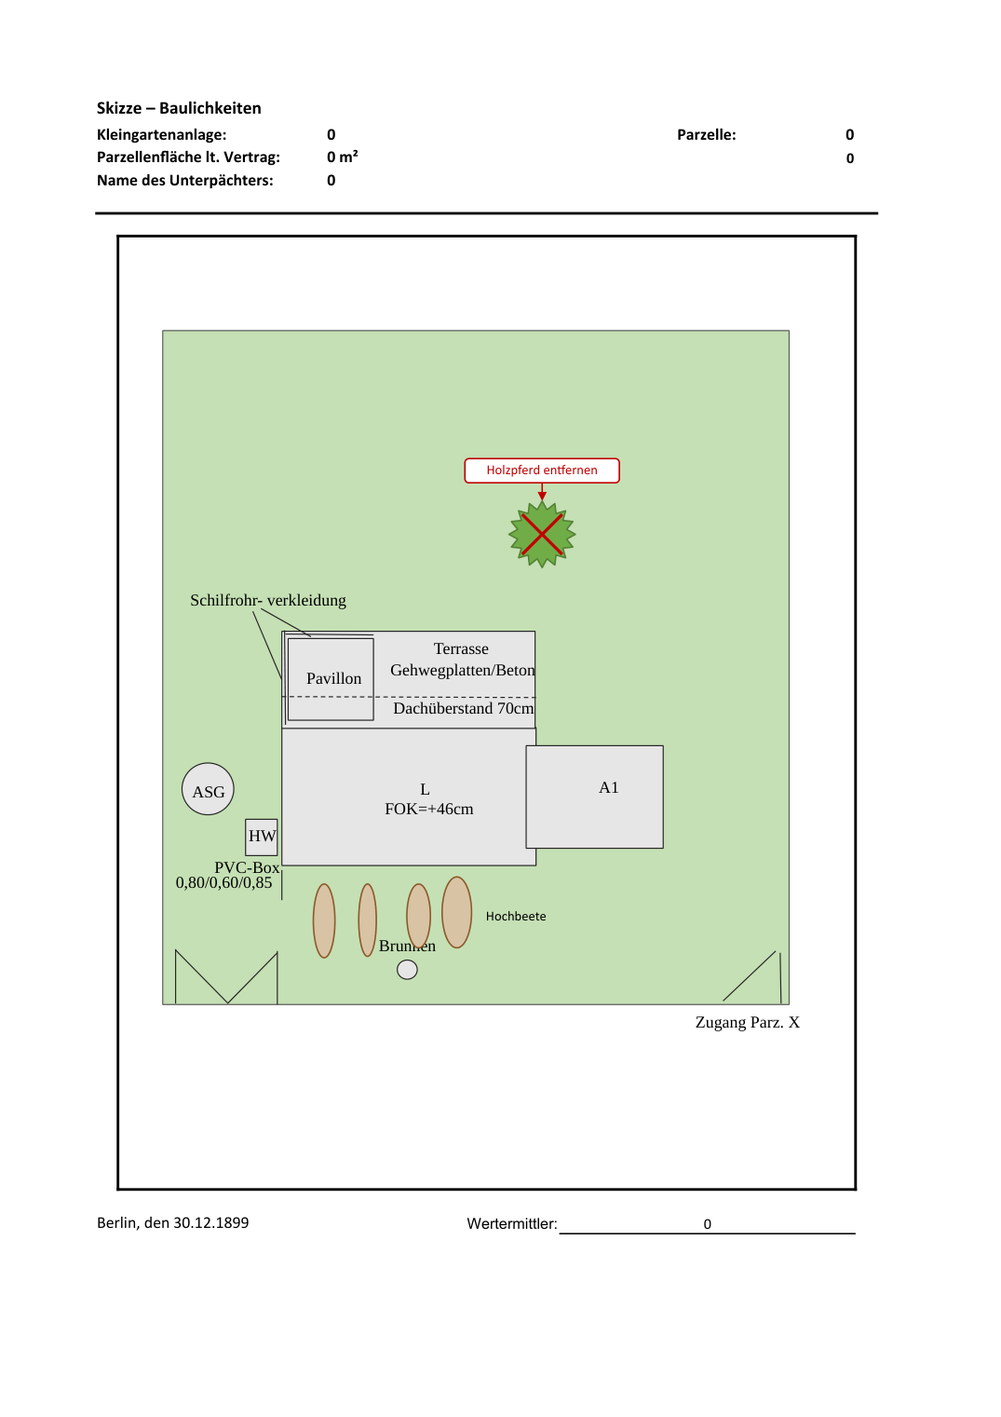
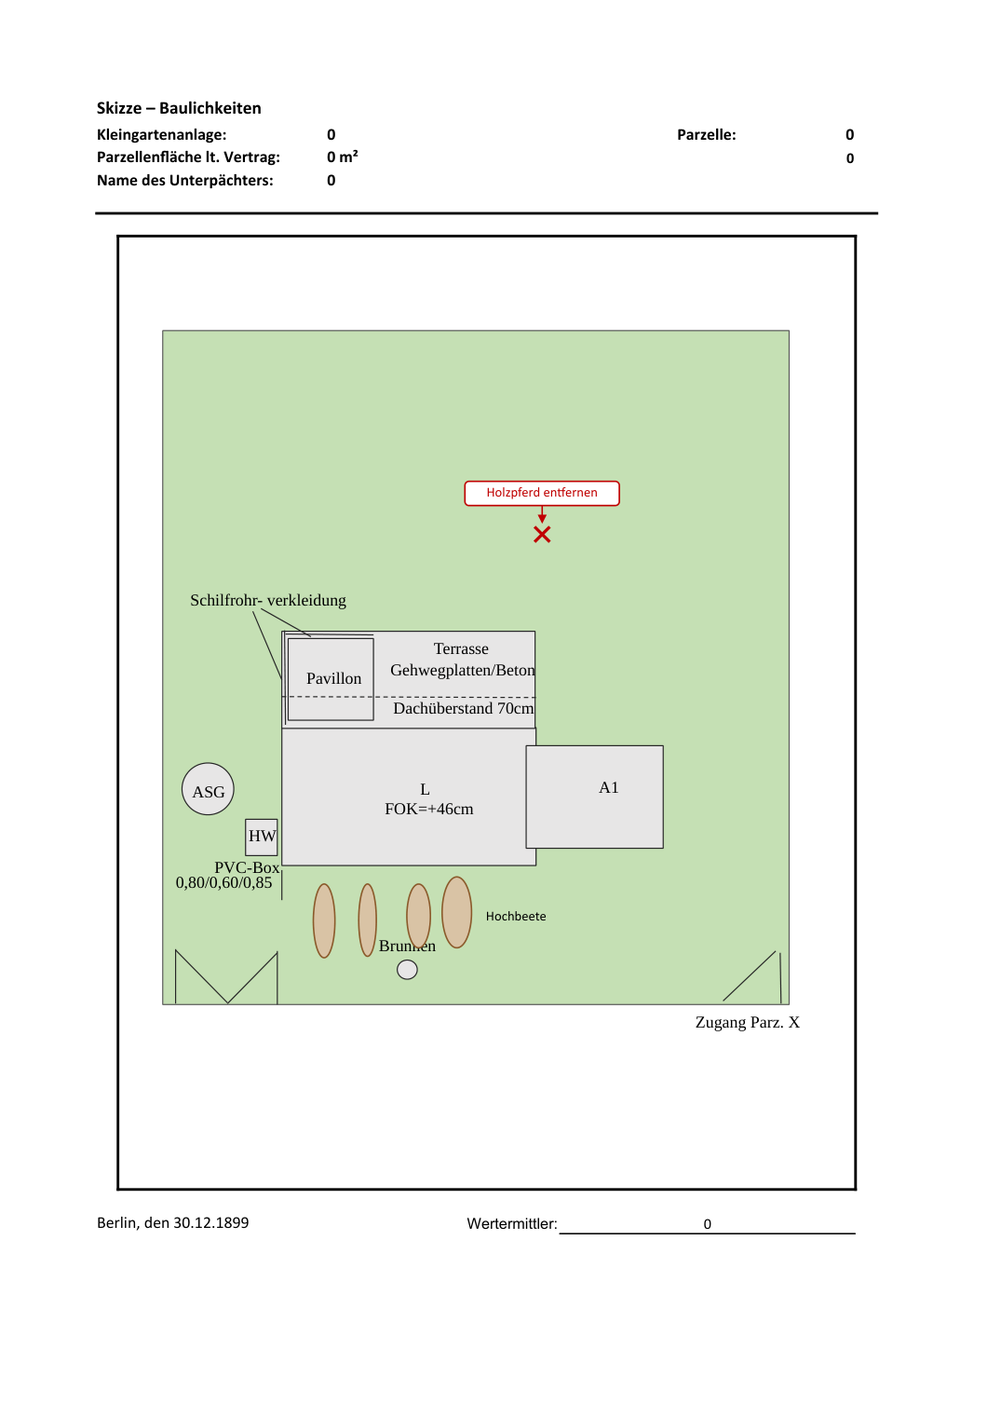
Export-Formen: entfernen nur bei Pflanzen als Stern, Beschriftungen weichen aus
- entfernen: Stern + X nur mit pflanze=true; sonst Hinweis + Pfeil + kleines rotes X
- Eigene Beschriftungen weichen vorhandenen Beschriftungen aus (rechts/unten/links/oben),
  Bau-Formen bleiben unverändert; Überdeckungen durch Körper-Formen werden gemeldet
- Adapter erkennt Pflanzen per Wortliste; Stilprobe und Vergleichsbild neu

Claude-Session: https://claude.ai/code/session_01HtoNJ3bRdjfhPeEhztXJF5

Changed region(s): [[0.4605, 0.309, 0.614, 0.4017]]

diff --git a/src/export/skizzeFormen.ts b/src/export/skizzeFormen.ts
@@ -24,8 +24,10 @@ import {
   NS_REL,
   REL_IMAGE,
   SKIZZE_BLATTNAME,
+  ANKER_REGEX,
   WEP_APP_MARKER,
   einpassen,
+  istEigenerAnker,
   entferneEigeneFormen,
   ergaenzeContentType,
   fuegeBeziehungHinzu,
@@ -94,6 +96,11 @@ export interface FormElement {
   text?: string
   /** hecke: „flieder“ | „gruen“; baum: „bergahorn“ | „buche“. */
   variante?: string
+  /**
+   * entfernen: Pflanze (Baum, Strauch, Hecke, Konifere) → Stern mit rotem X.
+   * Sonst (Holzpferd, Schuppen, Platte …) nur Hinweis + Pfeil auf die Stelle mit kleinem rotem X.
+   */
+  pflanze?: boolean
   /** Schriftgröße in pt (Standard 9). */
   schriftPt?: number
 }
@@ -126,6 +133,10 @@ export interface SkizzeFormenErgebnis {
   graswiese: boolean
   /** Piktogramme als SVG-Bild mit PNG-Fallback (sonst einfache Formen). */
   svgBilder: number
+  /** Beschriftungen, die wegen vorhandener Beschriftungen verschoben wurden (Formnamen). */
+  verschoben: string[]
+  /** Formen, die eine vorhandene Beschriftung überdecken und nicht verschoben werden können. */
+  ueberdeckt: string[]
 }
 
 // ---------------------------------------------------------------------------
@@ -626,22 +637,33 @@ function formenFuer(el: FormElement, mitSvg: boolean): Form[] {
 
     case 'entfernen': {
       if (!k) return []
-      const d = Math.round(Math.min(44 * PT, Math.max(30 * PT, Math.min(k.w, k.h))))
       const m = mitte(k)
-      const stern: Kasten = { x: Math.round(m.x - d / 2), y: Math.round(m.y - d / 2), w: d, h: d }
-      const r = d * 0.3
-      const f: Form[] = [
-        { art: 'sp', name: n, ebene: EBENE.entfernen, kasten: stern, prst: 'star16', fuellung: FARBE.sternFuellung, linie: linie(FARBE.sternLinie) },
-        { art: 'cxn', name: `${n}_X1`, ebene: EBENE.entfernen, von: { x: m.x - r, y: m.y - r }, nach: { x: m.x + r, y: m.y + r }, linie: linie(FARBE.rot, 2) },
-        { art: 'cxn', name: `${n}_X2`, ebene: EBENE.entfernen, von: { x: m.x + r, y: m.y - r }, nach: { x: m.x - r, y: m.y + r }, linie: linie(FARBE.rot, 2) },
-      ]
+      const f: Form[] = []
+      let oben: number // Oberkante der Markierung (Stern bzw. X)
+      const kreuz = (r: number) => {
+        f.push(
+          { art: 'cxn', name: `${n}_X1`, ebene: EBENE.entfernen, von: { x: m.x - r, y: m.y - r }, nach: { x: m.x + r, y: m.y + r }, linie: linie(FARBE.rot, 2) },
+          { art: 'cxn', name: `${n}_X2`, ebene: EBENE.entfernen, von: { x: m.x + r, y: m.y - r }, nach: { x: m.x - r, y: m.y + r }, linie: linie(FARBE.rot, 2) },
+        )
+      }
+      if (el.pflanze) {
+        const d = Math.round(Math.min(44 * PT, Math.max(30 * PT, Math.min(k.w, k.h))))
+        const stern: Kasten = { x: Math.round(m.x - d / 2), y: Math.round(m.y - d / 2), w: d, h: d }
+        f.push({ art: 'sp', name: n, ebene: EBENE.entfernen, kasten: stern, prst: 'star16', fuellung: FARBE.sternFuellung, linie: linie(FARBE.sternLinie) })
+        kreuz(d * 0.3)
+        oben = stern.y
+      } else {
+        // kein Pflanzen-Stern: nur ein kleines rotes X als Marker auf der Stelle
+        kreuz(5 * PT)
+        oben = Math.round(m.y - 7 * PT)
+      }
       if (text) {
         const h = Math.round(16 * PT)
         const w = textBreite(text, pt)
-        const hinweis: Kasten = { x: Math.round(m.x - w / 2), y: Math.max(0, Math.round(stern.y - h - 12 * PT)), w, h }
+        const hinweis: Kasten = { x: Math.round(m.x - w / 2), y: Math.max(0, Math.round(oben - h - 12 * PT)), w, h }
         f.push(
           hinweisFeld(`${n}_Hinweis`, hinweis, text, pt),
-          pfeil(`${n}_Pfeil`, { x: m.x, y: hinweis.y + hinweis.h }, { x: m.x, y: stern.y }, FARBE.rot, EBENE.hinweis),
+          pfeil(`${n}_Pfeil`, { x: m.x, y: hinweis.y + hinweis.h }, { x: m.x, y: oben }, FARBE.rot, EBENE.hinweis),
         )
       }
       return f
@@ -862,6 +884,75 @@ export function skizzeDatenZuFormen(daten: SkizzeDaten, bereich: Kasten): FormEl
 // Einfügen ins Zip
 // ---------------------------------------------------------------------------
 
+// ---------------------------------------------------------------------------
+// Beschriftungen nicht über vorhandene Beschriftungen legen
+// ---------------------------------------------------------------------------
+
+/** Rechtecke fremder Formen mit sichtbarem Text (z. B. Beschriftungen der Bau-Skizze). */
+export function fremdeBeschriftungen(drawingXml: string): { name: string; kasten: Kasten }[] {
+  const out: { name: string; kasten: Kasten }[] = []
+  for (const m of drawingXml.matchAll(ANKER_REGEX)) {
+    const anker = m[0]
+    if (istEigenerAnker(anker)) continue
+    const texte = [...anker.matchAll(/<a:t(?:\s[^>]*)?>([^<]*)<\/a:t>/g)].map((t) => t[1].trim()).filter(Boolean)
+    if (!texte.length) continue
+    const off = /<a:off x="(-?\d+)" y="(-?\d+)"\/>/.exec(anker)
+    const ext = /<a:ext cx="(\d+)" cy="(\d+)"\/>/.exec(anker)
+    if (!off || !ext) continue
+    out.push({
+      name: texte.join(' '),
+      kasten: { x: Number(off[1]), y: Number(off[2]), w: Number(ext[1]), h: Number(ext[2]) },
+    })
+  }
+  return out
+}
+
+/** Überlappen sich die Rechtecke (mit 1 pt Toleranz am Rand)? */
+function ueberlappt(a: Kasten, b: Kasten): boolean {
+  const t = PT
+  return a.x + t < b.x + b.w && b.x + t < a.x + a.w && a.y + t < b.y + b.h && b.y + t < a.y + a.h
+}
+
+const kastenVon = (f: Form): Kasten =>
+  f.art === 'cxn'
+    ? { x: Math.min(f.von.x, f.nach.x), y: Math.min(f.von.y, f.nach.y), w: Math.abs(f.nach.x - f.von.x), h: Math.abs(f.nach.y - f.von.y) }
+    : f.kasten
+
+/**
+ * Verschiebt eigene Beschriftungen (Textfelder), die vorhandene Beschriftungen, eigene
+ * Formen oder bereits gesetzte Beschriftungen überdecken würden – bevorzugt nach rechts,
+ * dann unten, links, oben. Vorhandene Formen werden nie angefasst. Gibt die Namen der
+ * verschobenen Beschriftungen zurück.
+ */
+export function weicheBeschriftungenAus(formen: Form[], fremd: Kasten[]): string[] {
+  const verschoben: string[] = []
+  const gesetzt: Kasten[] = []
+  const koerper = formen.filter((f) => !(f.art === 'sp' && f.textfeld) && f.ebene > EBENE.gras && f.art !== 'cxn').map(kastenVon)
+  for (const f of formen) {
+    if (f.art !== 'sp' || !f.textfeld) continue
+    const hindernisse = [...fremd, ...koerper, ...gesetzt]
+    const frei = (k: Kasten) => k.x >= 0 && k.y >= 0 && !hindernisse.some((h) => ueberlappt(k, h))
+    if (!frei(f.kasten)) {
+      const { w, h } = f.kasten
+      const luecke = 2 * PT
+      const kandidat = (dx: number, dy: number): Kasten => ({ ...f.kasten, x: f.kasten.x + dx, y: f.kasten.y + dy })
+      const versuche: Kasten[] = []
+      for (const stufe of [1, 2, 3]) {
+        const sx = (w + luecke) * stufe
+        const sy = (h + luecke) * stufe
+        versuche.push(kandidat(sx, 0), kandidat(0, sy), kandidat(-sx, 0), kandidat(0, -sy), kandidat(sx, sy), kandidat(-sx, sy), kandidat(sx, -sy), kandidat(-sx, -sy))
+      }
+      const neu = versuche.find(frei)
+      if (neu) {
+        f.kasten = neu
+        verschoben.push(f.name)
+      }
+    }
+    gesetzt.push(f.kasten)
+  }
+  return verschoben
+}
+
 function naechsterMediaName(zip: JSZip, stamm: string, endung: string): string {
   let n = 1
   while (zip.file(`xl/media/${stamm}${n}.${endung}`)) n++
@@ -907,6 +998,14 @@ export async function fuegeSkizzeFormenEin(
   formen.push(...elementeZuFormen(elemente, mitSvg))
   formen.sort((a, b) => a.ebene - b.ebene)
 
+  // Beschriftungen nicht über vorhandene (Bau-)Beschriftungen legen; Formen, die eine
+  // vorhandene Beschriftung überdecken, bleiben stehen (Lage = Skizze) und werden gemeldet.
+  const fremd = fremdeBeschriftungen(drawingXml)
+  const verschoben = weicheBeschriftungenAus(formen, fremd.map((x) => x.kasten))
+  const ueberdeckt = formen
+    .filter((f) => !(f.art === 'sp' && f.textfeld) && f.art !== 'cxn' && f.ebene > EBENE.gras)
+    .flatMap((f) => fremd.filter((x) => ueberlappt(kastenVon(f), x.kasten)).map((x) => `${f.name} überdeckt „${x.name}“`))
+
   // Bilder (SVG + PNG-Fallback) ablegen und verknüpfen
   const relsDatei = relsPfad(drawingPfad)
   let rels = (await zip.file(relsDatei)?.async('string')) ?? LEERE_RELS
@@ -942,5 +1041,5 @@ export async function fuegeSkizzeFormenEin(
 
   drawingXml = drawingXml.replace('</xdr:wsDr>', `${anker}</xdr:wsDr>`)
   zip.file(drawingPfad, drawingXml)
-  return { anzahlFormen: formen.length, entfernt, graswiese, svgBilder }
+  return { anzahlFormen: formen.length, entfernt, graswiese, svgBilder, verschoben, ueberdeckt }
 }

diff --git a/src/export/__tests__/skizzeFormen.test.ts b/src/export/__tests__/skizzeFormen.test.ts
@@ -51,6 +51,7 @@ const BEISPIEL: FormElement[] = [
   { typ: 'hochbeet', name: 'Hochbeet_0', kasten: { x: 1_500_000, y: 6_000_000, w: 400_000, h: 600_000 } },
   { typ: 'hochbeet', name: 'Hochbeet_1', kasten: { x: 2_000_000, y: 6_000_000, w: 400_000, h: 600_000 } },
   { typ: 'entfernen', name: 'Holzpferd', kasten: { x: 3_000_000, y: 3_000_000, w: 500_000, h: 400_000 }, text: 'Holzpferd entfernen' },
+  { typ: 'entfernen', name: 'Wacholder', kasten: { x: 3_800_000, y: 3_000_000, w: 500_000, h: 400_000 }, text: 'Wacholder entfernen', pflanze: true },
   { typ: 'baum', name: 'Bergahorn', kasten: { x: 4_000_000, y: 4_000_000, w: 500_000, h: 600_000 }, text: 'Bergahorn', variante: 'bergahorn' },
   { typ: 'hecke', name: 'Fliederhecke', kasten: { x: 1_000_000, y: 2_500_000, w: 2_000_000, h: 300_000 }, text: 'Flieder', variante: 'flieder' },
   { typ: 'kompost', name: 'Kompost', kasten: { x: 4_500_000, y: 2_500_000, w: 600_000, h: 400_000 } },
@@ -125,7 +126,8 @@ describe('Elemente → Formen', () => {
     const namen = formNamen(BEISPIEL)
     for (const n of [
       'Hochbeet_0', 'Hochbeet_1',
-      'Holzpferd', 'Holzpferd_X1', 'Holzpferd_X2', 'Holzpferd_Hinweis',
+      'Holzpferd_X1', 'Holzpferd_X2', 'Holzpferd_Hinweis', 'Holzpferd_Pfeil',
+      'Wacholder', 'Wacholder_X1', 'Wacholder_Hinweis',
       'Bergahorn', 'Bergahorn_Text',
       'Fliederhecke_0', 'Fliederhecke_Text',
       'Kompost', 'Kompost_Latte_0', 'Kompost_Latte_1', 'Kompost_Latte_2', 'Kompost_Text',
@@ -137,18 +139,28 @@ describe('Elemente → Formen', () => {
     expect(new Set(namen).size).toBe(namen.length)
   })
 
+  it('entfernen: Pflanze = Stern + X, Nicht-Pflanze = nur kleines X + Hinweis + Pfeil', () => {
+    const formen = elementeZuFormen(BEISPIEL, false)
+    const namen = formen.map((f) => f.name)
+    expect(namen).toContain('Wacholder')
+    expect(namen).not.toContain('Holzpferd') // kein Stern
+    expect(formen.some((f) => f.name.startsWith('Holzpferd') && f.art === 'sp' && f.prst === 'star16')).toBe(false)
+    const x1 = formen.find((f) => f.name === 'Holzpferd_X1')!
+    expect(x1.art === 'cxn' && Math.abs(x1.nach.x - x1.von.x)).toBeLessThanOrEqual(12 * PT)
+  })
+
   it('ordnet die Ebenen: Grün unten, Beschriftung, Hinweise, Maße oben', () => {
     const namen = formNamen(BEISPIEL)
     const pos = (n: string) => namen.indexOf(n)
     expect(pos('Fliederhecke_0')).toBeLessThan(pos('Kompost'))
-    expect(pos('Kompost')).toBeLessThan(pos('Holzpferd'))
-    expect(pos('Holzpferd')).toBeLessThan(pos('Bergahorn_Text'))
+    expect(pos('Kompost')).toBeLessThan(pos('Holzpferd_X1'))
+    expect(pos('Holzpferd_X1')).toBeLessThan(pos('Bergahorn_Text'))
     expect(pos('Bergahorn_Text')).toBeLessThan(pos('Rueckschnitt'))
     expect(pos('Rueckschnitt')).toBeLessThan(pos('Maß_Laube_Breite'))
   })
 
   it('zeichnet die Hecke als versetzte, überlappende Ellipsen', () => {
-    const formen = elementeZuFormen([BEISPIEL[4]], false).filter((f) => f.name.startsWith('Fliederhecke_') && f.art === 'sp')
+    const formen = elementeZuFormen(BEISPIEL.filter((e) => e.name === 'Fliederhecke'), false).filter((f) => f.name.startsWith('Fliederhecke_') && f.art === 'sp')
     const ellipsen = formen.filter((f) => f.name !== 'Fliederhecke_Text')
     expect(ellipsen.length).toBeGreaterThanOrEqual(5)
     for (const e of ellipsen) {
@@ -160,7 +172,7 @@ describe('Elemente → Formen', () => {
   })
 
   it('Baum ohne SVG: Krone aus Kreisen + Stamm', () => {
-    const namen = formNamen([BEISPIEL[3]], false)
+    const namen = formNamen(BEISPIEL.filter((e) => e.name === 'Bergahorn'), false)
     expect(namen).toEqual(expect.arrayContaining(['Bergahorn_Stamm', 'Bergahorn_Krone_0', 'Bergahorn_Krone_1', 'Bergahorn_Krone_2']))
   })
 })
@@ -187,7 +199,8 @@ describe('Export als Excel-Formen', () => {
     const r = await exportWep(wep, vorlage, { skizzeFormen: { elemente: BEISPIEL, rasterisiere: raster } })
     const drawing = await (await alsZip(r.blob)).file(DRAWING)!.async('string')
     const form = (name: string) => anker(drawing).find((a) => a.includes(`name="${name}"`))!
-    expect(form('Holzpferd')).toContain('prst="star16"')
+    expect(form('Wacholder')).toContain('prst="star16"')
+    expect(form('Holzpferd_X1')).not.toContain('star16')
     expect(form('Holzpferd_X1')).toMatch(/<a:ln w="25400"><a:solidFill><a:srgbClr val="C00000"/)
     expect(form('Holzpferd_Hinweis')).toContain('prst="roundRect"')
     expect(form('Holzpferd_Hinweis')).toContain('<a:srgbClr val="FFFFFF"/>')
@@ -364,13 +377,44 @@ describe('Blatt mit fremden Formen', () => {
     const zip = await alsZip(zweit.blob)
     const drawing = await zip.file(DRAWING)!.async('string')
     for (const f of FREMDE) expect(drawing).toContain(f)
-    expect(drawing).not.toContain('name="Holzpferd"')
+    expect(drawing).not.toContain('name="Wacholder"')
     expect(drawing).toContain('name="Hochbeet_1"')
     expect(drawing.match(/name="Hochbeet_0"/g)).toHaveLength(1)
     // keine Bild-Leichen: nur Bilder, die noch verwendet werden (hier: keine Piktogramme mehr)
     expect(zip.file(/^xl\/media\//)).toHaveLength(0)
     const rels = await zip.file('xl/drawings/_rels/drawing9.xml.rels')?.async('string')
     expect(rels ?? '').not.toContain('wep-skizze')
+  })
+
+  it('Beschriftungen weichen vorhandenen Beschriftungen aus (Bau-Formen bleiben)', async () => {
+    // Bau-Beschriftung „Brunnen“ genau dort, wo die Beschriftung unter dem Baum läge
+    const baum: FormElement = { typ: 'baum', name: 'Buche', kasten: { x: 2_000_000, y: 2_000_000, w: 500_000, h: 600_000 }, text: 'Buche' }
+    const leer = await exportWep(wep, vorlage, { skizzeFormen: { elemente: [baum], graswiese: false } })
+    const mitte = /name="Buche_Text"[\s\S]*?<a:off x="(\d+)" y="(\d+)"\/>/.exec(await (await alsZip(leer.blob)).file(DRAWING)!.async('string'))!
+    const label = { x: Number(mitte[1]), y: Number(mitte[2]) }
+    const brunnen = fremdForm(2, 'Textfeld 39', 'Brunnen').replace(
+      '<a:prstGeom',
+      `<a:xfrm><a:off x="${label.x}" y="${label.y}"/><a:ext cx="700000" cy="280000"/></a:xfrm><a:prstGeom`,
+    )
+    const quelle = KOPF + brunnen + '</xdr:wsDr>'
+    const r = await exportWep(wep, await vorlageMit(quelle), { skizzeFormen: { elemente: [baum] } })
+    expect(r.skizzeFormen!.verschoben).toEqual(['Buche_Text'])
+    const drawing = await (await alsZip(r.blob)).file(DRAWING)!.async('string')
+    expect(drawing).toContain(brunnen) // Bau-Form unverändert
+    const neu = /name="Buche_Text"[\s\S]*?<a:off x="(\d+)" y="(\d+)"\/><a:ext cx="(\d+)" cy="(\d+)"\/>/.exec(drawing)!
+    const [nx, ny, nw, nh] = neu.slice(1).map(Number)
+    const frei = nx >= label.x + 700000 || nx + nw <= label.x || ny >= label.y + 280000 || ny + nh <= label.y
+    expect(frei).toBe(true)
+  })
+
+  it('meldet Formen, die eine vorhandene Beschriftung überdecken', async () => {
+    const beet: FormElement = { typ: 'hochbeet', name: 'Hochbeet_0', kasten: { x: 2_000_000, y: 2_000_000, w: 400_000, h: 600_000 } }
+    const bau = fremdForm(2, 'Textfeld 39', 'Brunnen').replace(
+      '<a:prstGeom',
+      '<a:xfrm><a:off x="2100000" y="2200000"/><a:ext cx="700000" cy="280000"/></a:xfrm><a:prstGeom',
+    )
+    const r = await exportWep(wep, await vorlageMit(KOPF + bau + '</xdr:wsDr>'), { skizzeFormen: { elemente: [beet] } })
+    expect(r.skizzeFormen!.ueberdeckt).toEqual(['Hochbeet_0 überdeckt „Brunnen“'])
   })
 
   it('ein früherer Export zählt nicht als „Blatt hat Formen“', async () => {
@@ -463,7 +507,7 @@ describe('LibreOffice', () => {
       // 1. Flat-ODS: LibreOffice hat die Formen als Zeichenobjekte gelesen (Name erhalten)
       execFileSync(soffice, [profil, '--headless', '--convert-to', 'fods', '--outdir', dir, xlsx], { stdio: 'pipe', timeout: 120000 })
       const fods = fs.readFileSync(path.join(dir, 'formen.fods'), 'utf8')
-      for (const n of ['Hochbeet_0', 'Holzpferd', 'Holzpferd_X1', 'Holzpferd_Hinweis', 'Kompost_Latte_1', 'Maß_Laube_Breite', 'Rechteck 8']) {
+      for (const n of ['Hochbeet_0', 'Wacholder', 'Holzpferd_X1', 'Holzpferd_Hinweis', 'Kompost_Latte_1', 'Maß_Laube_Breite', 'Rechteck 8']) {
         expect(fods, n).toContain(`draw:name="${n}"`)
       }
       // 2. PDF entsteht (alle Blätter, inkl. Skizzen-Blatt mit den Formen)

diff --git a/tools/ki-test/skizze/formen.ts b/tools/ki-test/skizze/formen.ts
@@ -25,6 +25,10 @@ export function ident(s: string): string {
     .replace(/[^\p{L}\p{N}_-]/gu, '')
 }
 
+/** Pflanzen (Stern + X beim Entfernen); alles andere (Holzpferd, Schuppen, Platte …) nur Hinweis + Marker. */
+const PFLANZE = /baum|bäume|strauch|sträucher|busch|hecke|konifere|nadelbaum|wacholder|thuja|zypresse|fichte|tanne|kiefer|flieder|jasmin|ahorn|buche|birke|eiche|linde|obst|apfel|birne|kirsche|pflaume|rose|hortensie|bambus|forsythie|liguster|hainbuche|lebensbaum/i
+export const istPflanze = (...texte: string[]) => PFLANZE.test(texte.join(' '))
+
 const kasten = (r: Rechteck): Kasten => ({ x: Math.round(r.x), y: Math.round(r.y), w: Math.round(r.w), h: Math.round(r.h) })
 const mitteVon = (r: Rechteck) => ({ x: Math.round(r.x + r.w / 2), y: Math.round(r.y + r.h / 2) })
 
@@ -69,7 +73,7 @@ export function zuordnungenZuFormen(a: Pick<Ausrichtung, 'zuordnungen'>): FormEl
       }
       case 'entfernen': {
         const stamm = ident(e.bezug || text.split(/\s+/)[0] || 'Entfernen') || 'Entfernen'
-        out.push({ typ: 'entfernen', name: nummer(stamm, false), kasten: k, text })
+        out.push({ typ: 'entfernen', name: nummer(stamm, false), kasten: k, text, pflanze: istPflanze(e.bezug, text) })
         break
       }
       case 'baum':

diff --git a/tools/ki-test/skizze/stilprobe.ts b/tools/ki-test/skizze/stilprobe.ts
@@ -22,7 +22,8 @@ export function stilprobe(z: Kasten): FormElement[] {
     { typ: 'hochbeet', name: 'Hochbeet', kasten: box(0.1, 0.65, 0.12, 0.07), text: 'Hochbeet' },
     { typ: 'brunnen', name: 'Brunnen', kasten: box(0.28, 0.66, 0.05, 0.035), text: 'Brunnen' },
     { typ: 'schacht', name: 'HW_Schacht_alt', kasten: box(0.3, 0.5, 0.05, 0.03), text: 'HW-Schacht alt' },
-    { typ: 'entfernen', name: 'Wacholder', kasten: box(0.65, 0.5, 0.08, 0.06), text: 'Wacholder entfernen' },
+    { typ: 'entfernen', name: 'Wacholder', kasten: box(0.65, 0.5, 0.08, 0.06), text: 'Wacholder entfernen', pflanze: true },
+    { typ: 'entfernen', name: 'Holzpferd', kasten: box(0.45, 0.3, 0.06, 0.04), text: 'Holzpferd entfernen' },
     { typ: 'mangelhinweis', name: 'Rueckschnitt', kasten: box(0.3, 0.04, 0.2, 0.035), text: 'Rückschnitt', nach: { x: X(0.3), y: Y(0.12) } },
     { typ: 'massangabe', name: 'Maß_Weg_Breite', von: { x: X(0.42), y: Y(0.5) }, nach: { x: X(0.58), y: Y(0.5) }, text: '4 m' },
     { typ: 'massangabe', name: 'Maß_Hecke_Laenge', von: { x: X(0.88), y: Y(0.2) }, nach: { x: X(0.88), y: Y(0.5) }, text: '1,5 m' },

diff --git a/tools/ki-test/export-skizze.ts b/tools/ki-test/export-skizze.ts
@@ -53,6 +53,9 @@ async function main() {
     `Export: ${r.skizzeFormen?.anzahlFormen} Formen (${r.skizzeFormen?.svgBilder} SVG-Bilder), Wiese ergänzt: ${r.skizzeFormen?.graswiese}`,
   )
 
+  if (r.skizzeFormen?.verschoben.length) console.log(`Beschriftungen verschoben: ${r.skizzeFormen.verschoben.join(', ')}`)
+  if (r.skizzeFormen?.ueberdeckt.length) console.log(`Überdeckt (nicht verschiebbar): ${r.skizzeFormen.ueberdeckt.join('; ')}`)
+
   const ziel = join(HIER, 'ergebnis-skizze', fall)
   mkdirSync(ziel, { recursive: true })
   const xlsx = new Uint8Array(await r.blob.arrayBuffer())

diff --git a/docs/ENTSCHEIDUNGEN.md b/docs/ENTSCHEIDUNGEN.md
@@ -28,3 +28,4 @@
 | 2026-10-17 | **KI-Testlauf (K-A0) unter `tools/ki-test/`**, Start mit `npm run ki-test` über **vite-node** (schon über Vitest installiert, eigene Mini-Konfiguration nur mit Alias `@`); Modellkette wird **nicht fest verdrahtet**, sondern aus `models.list` gefiltert, sortiert und per Probe-Anfrage mit `responseSchema` auf das Gratis-Kontingent geprüft; Antwortschema mit `katalogId` als Enum der Katalog-IDs; Prompt ohne Höchstwerte; Key nur im Header `x-goog-api-key` aus `.dev.vars` | vite-node löst den `@`-Alias auf, damit der Test den echten App-Code (`berechnePreisvorschlag`) rechnet; models.list sagt nichts über den Tarif, nur die Probe zeigt „limit: 0“; das Enum verhindert erfundene IDs; ohne Preise im Prompt bleibt „KI liest, App rechnet“ sauber getrennt; Key nie in URL/Logs. |
 | 2026-10-18 | **Assistent A nimmt nur Text oder .docx (mammoth im Browser), kein Foto.** Skizzen-Testlauf (`npm run ki-test-skizze`) mit Ausrichtung über Bezugsgebäude, stückweise linear je Achse. **Export:** Hat das Blatt „Skizze Außenanlage-Aufwuchs“ schon eigene Formen (außer leeren Vorlagen-Textfeldern), fordert `exportWep` das Skizzen-PNG transparent und ohne Raster an (`skizzePng` darf eine Funktion sein). | Handschrift-Fotos der Liste sind unzuverlässig; Liste liegt ohnehin als Word/Notiz vor. Eine lineare Abbildung verschiebt neue Elemente bei unproportionalen Skizzen in Gebäude. Das weiße PNG würde die kopierten Bau-Formen verdecken. |
 | 2026-10-18 | **E3 Grün-Skizze als native Excel-Formen statt PNG** (`src/export/skizzeFormen.ts`): Eingabe ist ein eigenes, vom Editor unabhängiges Modell `FormElement` (Typ, Kasten/Punkte in **EMU ab Blattecke**, Text); `skizzeDatenZuFormen` übersetzt den einfachen Editor (Pixel → Zeichenbereich B7:G48), `tools/ki-test/skizze/formen.ts` die Ausrichtung (nur „neue“ Elemente). Formen werden als `twoCellAnchor editAs="oneCell"` an das vorhandene Drawing angehängt (Spaltenbreiten/Zeilenhöhen aus dem Blatt-XML; Excel-Pixelrundung). **Eigene Formen** tragen `descr="wep-app"` – nur diese (und das alte PNG „WEP-App Skizze“) ersetzt ein erneuter Export, samt ihren `wep-skizze-form*`-Dateien. Piktogramme (Baum, Strauch, Tor, Gras) als `xdr:pic` mit SVG (`svgBlip`) und PNG-Fallback; den Rasterisierer übergibt der Aufrufer (Browser: `svgZuPngBrowser`, Test: @napi-rs/canvas), ohne Rasterisierer entstehen einfache Formen. Gras + Grundstück nur auf noch leerem Blatt. PNG bleibt Fallback (`skizzeAlsBild`). | Die Bau-Skizze liegt schon als Formen im Blatt; ein PNG verdeckt sie oder liegt als nicht bearbeitbares Bild darüber. Formen kann der Wertermittler in Excel nachbessern. Das Zwischenmodell hält Export (Format) und KI/Editor (Inhalt) getrennt. Die Ausrichtung liefert xfrm-Koordinaten, die in der Vorlage um 1–2 % von der Zellgeometrie abweichen – Zellanker sind maßgeblich, die Abweichung ist unsichtbar klein. |
+| 2026-10-18 | **E3 Nachbesserung:** `entfernen` zeichnet den Pflanzen-Stern nur bei `pflanze: true` (Adapter erkennt Baum/Strauch/Hecke/Konifere und gängige Arten per Wortliste), sonst kleines rotes X + Hinweis + Pfeil. Eigene Beschriftungen weichen vorhandenen Beschriftungen (Text-Formen im Drawing, Lage aus `a:xfrm`) aus; Körper-Formen bleiben an der Skizzenposition und werden als `ueberdeckt` gemeldet. | Ein Stern bei „Holzpferd entfernen“ ist irreführend. Bau-Beschriftungen sind Pflicht-Inhalt der Bau-Skizze und dürfen nicht überdeckt werden, die Lage neuer Elemente kommt aber aus der Skizze. |

diff --git a/src/export/README.md b/src/export/README.md
@@ -85,6 +85,10 @@ await exportWep(wep, excel, {
 - Sprechende Namen wie im Skill: `Hochbeet_0`, `Holzpferd`, `Holzpferd_X1`, `Holzpferd_Hinweis`,
   `Fliederhecke_0`, `Kompost_Latte_1`, `Maß_Laube_Breite` …
 - Stil (Farben, Ebenen) siehe `docs/skills/parzellen-skizze.md`; Elementtypen in `FormTyp`.
+- `entfernen`: mit `pflanze: true` (Baum, Strauch, Hecke, Konifere) Stern + rotes X, sonst (Holzpferd,
+  Schuppen, Platte …) nur Hinweis + Pfeil + kleines rotes X als Marker.
+- Eigene Beschriftungen (Textfelder) weichen vorhandenen Beschriftungen aus (rechts, unten, links, oben);
+  vorhandene Formen werden nie verschoben. `ergebnis.verschoben` / `ergebnis.ueberdeckt` melden das.
 - Gras + Grundstück (Wiese) nur, wenn das Blatt noch leer ist (`graswiese: false` schaltet ab).
 - Ohne `rasterisiere` werden Baum/Strauch/Tor aus einfachen Formen gezeichnet, ohne Bilddateien.
 - Positionen: absolute EMU → `twoCellAnchor editAs="oneCell"` über Spaltenbreiten/Zeilenhöhen des
